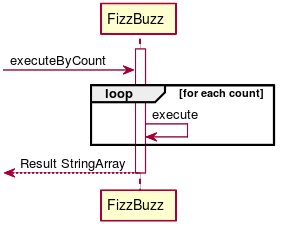
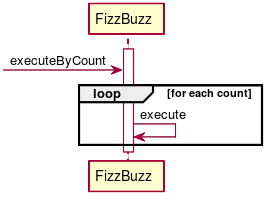
FizzBuzz #EFJ-8
・実装:出力された値を全て保持する
・リファクタリング・・・クラス変数の導入

Changed region(s): [[0.0, 0.0, 0.9706, 0.9851]]

diff --git a/src/main/java/tdd/fizzbuzz/FizzBuzz.java b/src/main/java/tdd/fizzbuzz/FizzBuzz.java
@@ -2,6 +2,8 @@ package tdd.fizzbuzz;
 
 public class FizzBuzz {
 
+    public static String[] results;
+
     public static String execute(int number) {
         if (number % 3 == 0 && number % 5 == 0) {
             return "FizzBuzz";
@@ -14,11 +16,10 @@ public class FizzBuzz {
         }
     }
 
-    public static String[] executeByCount(int count) {
-        String result[] = new String[count + 1];
+    public static void executeByCount(int count) {
+        results = new String[count + 1];
         for (int i = 0; i <= count; ++i) {
-            result[i] = FizzBuzz.execute(i);
+            results[i] = FizzBuzz.execute(i);
         }
-        return result;
     }
 }

diff --git a/src/test/java/tdd/fizzbuzz/FizzBuzzTest.java b/src/test/java/tdd/fizzbuzz/FizzBuzzTest.java
@@ -1,6 +1,5 @@
 package tdd.fizzbuzz;
 
-import org.junit.FixMethodOrder;
 import org.junit.jupiter.api.Test;
 import static org.junit.jupiter.api.Assertions.*;
 
@@ -42,12 +41,12 @@ public class FizzBuzzTest {
     }
     @Test
     public void print100thCountResult() {
-        String[] result = FizzBuzz.executeByCount(100);
+        FizzBuzz.executeByCount(100);
         assertEquals("Buzz",FizzBuzz.results[100]);
     }
     @Test
     public void print30thCountResult() {
-        String result[] = FizzBuzz.executeByCount(30);
+        FizzBuzz.executeByCount(30);
         assertEquals("FizzBuzz",FizzBuzz.results[30]);
     }
 }

diff --git a/docs/fizzbuzz.md b/docs/fizzbuzz.md
@@ -25,11 +25,11 @@
 ### クラス図
   
 
-![](./assets/e8d064149b1f1533be1aa0a12f272e560.png?0.5225143881366623)  
+![](./assets/e8d064149b1f1533be1aa0a12f272e560.png?0.975584999148216)  
 ### シーケンス図
   
 
-![](./assets/e8d064149b1f1533be1aa0a12f272e561.png?0.42670862085830685)  
+![](./assets/e8d064149b1f1533be1aa0a12f272e561.png?0.3916987160985095)  
   
 ## 実装
   
@@ -39,7 +39,6 @@
 ```java
 package tdd.fizzbuzz;
   
-import org.junit.FixMethodOrder;
 import org.junit.jupiter.api.Test;
 import static org.junit.jupiter.api.Assertions.*;
   
@@ -81,12 +80,12 @@ public class FizzBuzzTest {
     }
     @Test
     public void print100thCountResult() {
-        String[] result = FizzBuzz.executeByCount(100);
+        FizzBuzz.executeByCount(100);
         assertEquals("Buzz",FizzBuzz.results[100]);
     }
     @Test
     public void print30thCountResult() {
-        String result[] = FizzBuzz.executeByCount(30);
+        FizzBuzz.executeByCount(30);
         assertEquals("FizzBuzz",FizzBuzz.results[30]);
     }
 }
@@ -98,6 +97,8 @@ public class FizzBuzzTest {
 package tdd.fizzbuzz;
   
 public class FizzBuzz {
+  
+    public static String[] results;
   
     public static String execute(int number) {
         if (number % 3 == 0 && number % 5 == 0) {
@@ -111,12 +112,11 @@ public class FizzBuzz {
         }
     }
   
-    public static String[] executeByCount(int count) {
-        String result[] = new String[count + 1];
+    public static void executeByCount(int count) {
+        results = new String[count + 1];
         for (int i = 0; i <= count; ++i) {
-            result[i] = FizzBuzz.execute(i);
+            results[i] = FizzBuzz.execute(i);
         }
-        return result;
     }
 }
   

diff --git a/docs/src/fizzbuzz.md b/docs/src/fizzbuzz.md
@@ -28,7 +28,7 @@ markdown:
 ```puml
 @startuml
 class FizzBuzz {
-  results :String[ ]
+  +results :String[ ]
   +execute(number:int) :String
   +excueteByCount(count:int) :String[]
 }
@@ -42,7 +42,6 @@ class FizzBuzz {
    loop for each count
       FizzBuzz -> FizzBuzz :execute
    end
-   <-- FizzBuzz :Result StringArray
    deactivate FizzBuzz
 @enduml
 ```
